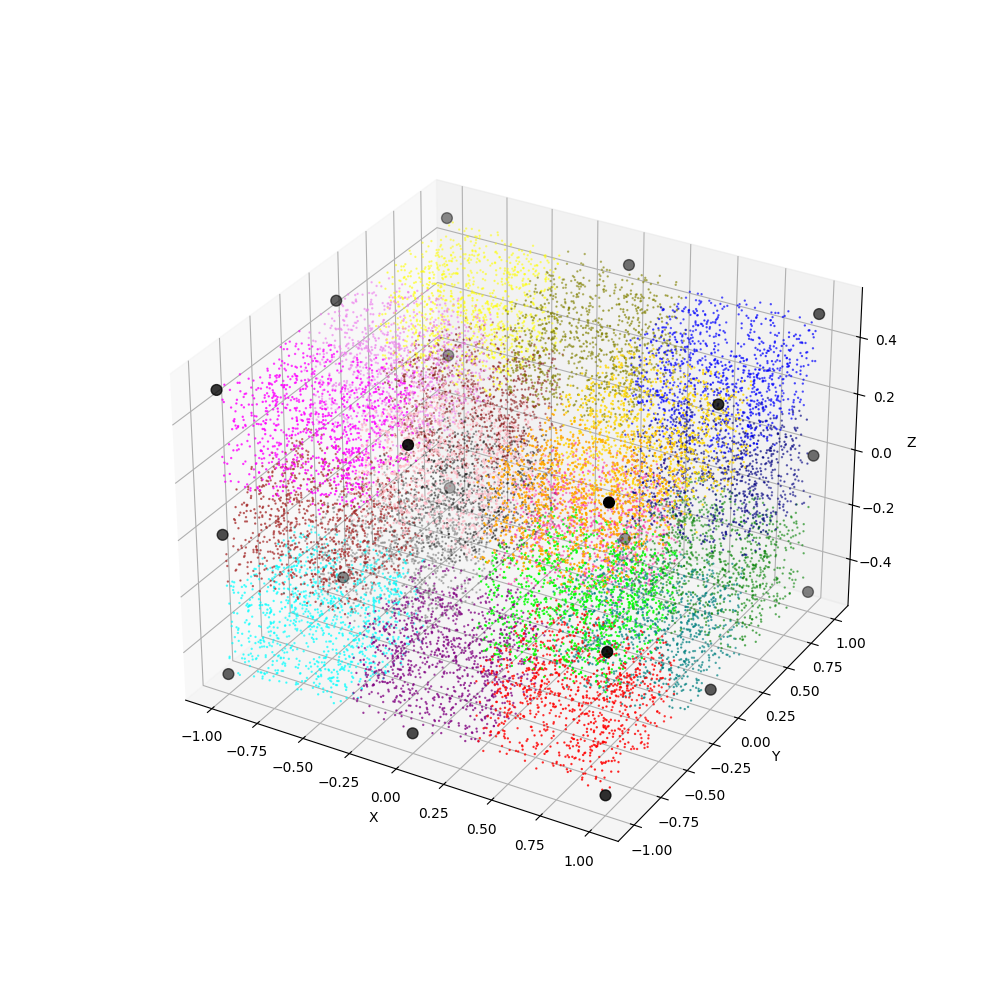
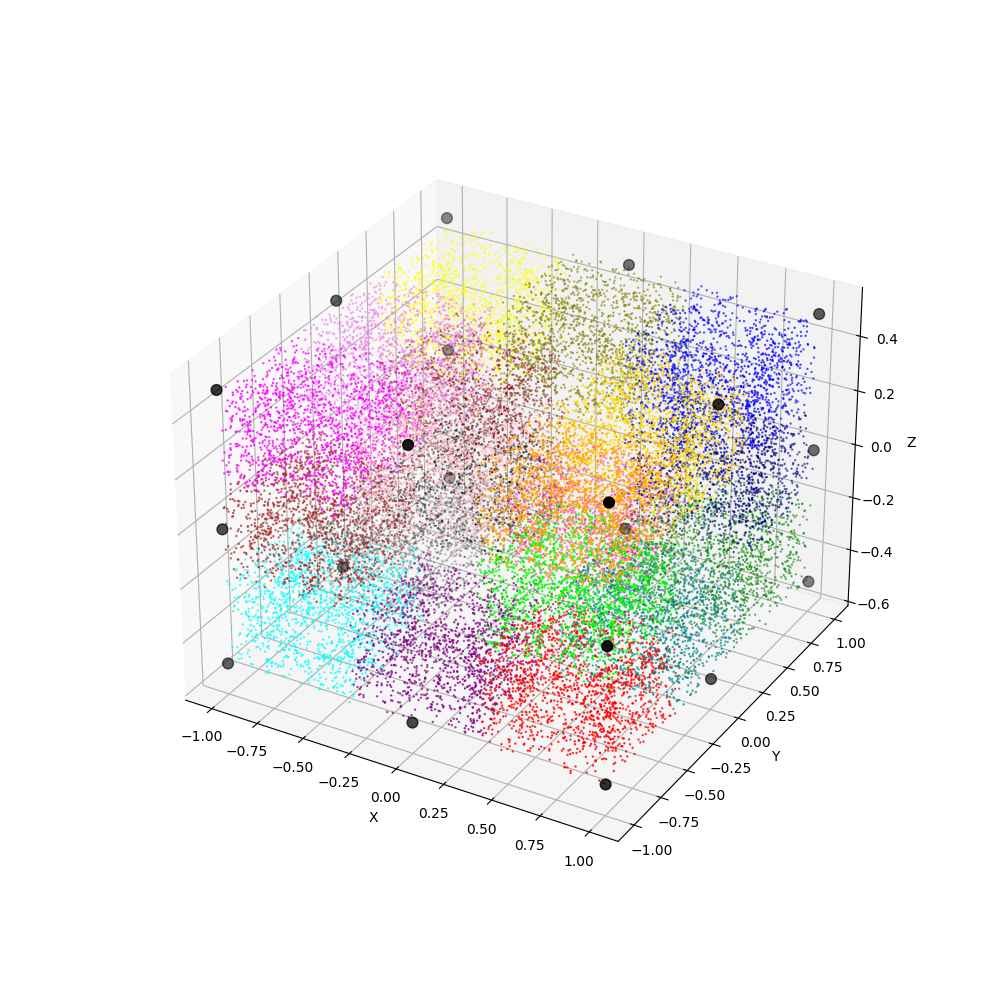
adjusted number of points

diff --git a/3dChaos_cube.py b/3dChaos_cube.py
@@ -59,7 +59,7 @@ def chaos_iter(r, N, x, vertices):
 def main():
     # params for chaos game
     r = 2/3 # ratio for cube
-    N = 20000 # number of points
+    N = 30000 # number of points
     x = random_point_cube([-1, -1, -1], [1, 1, 1])  # starting point
     vertices = build_vertices()
 
